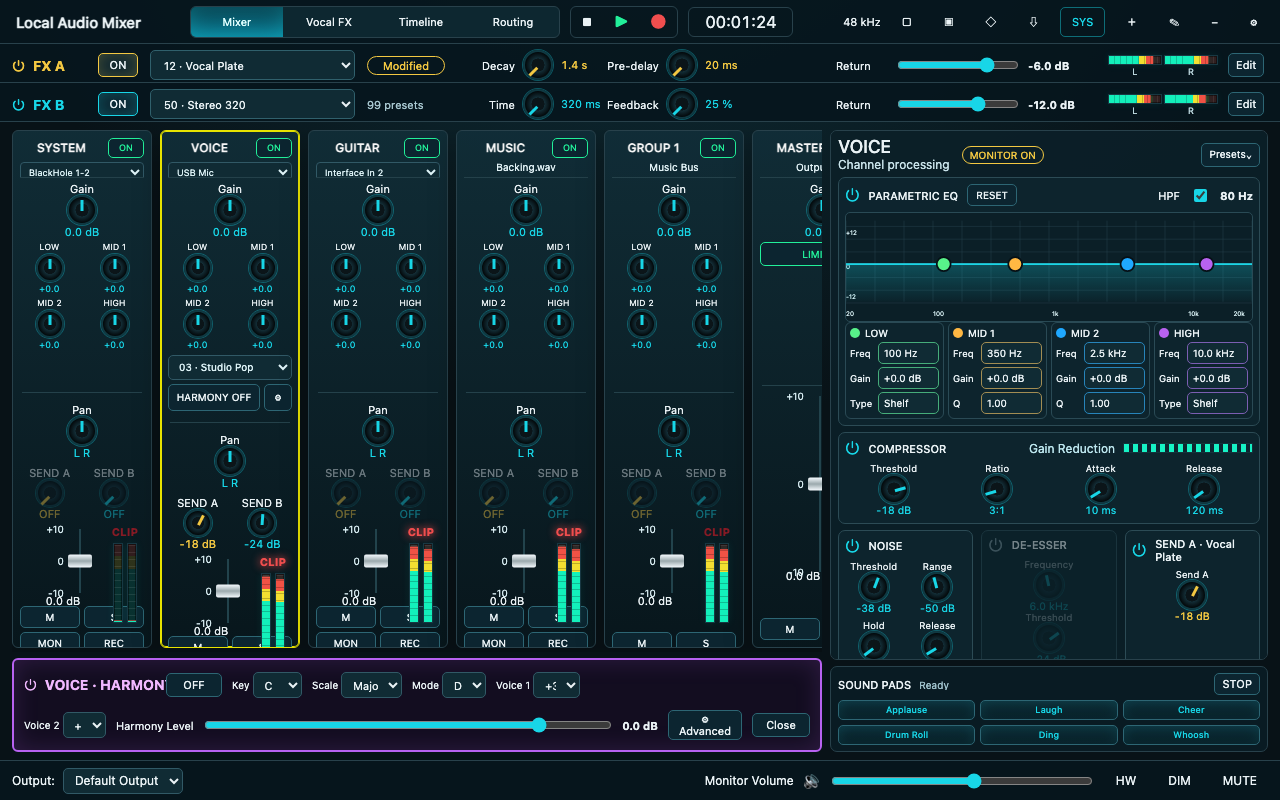
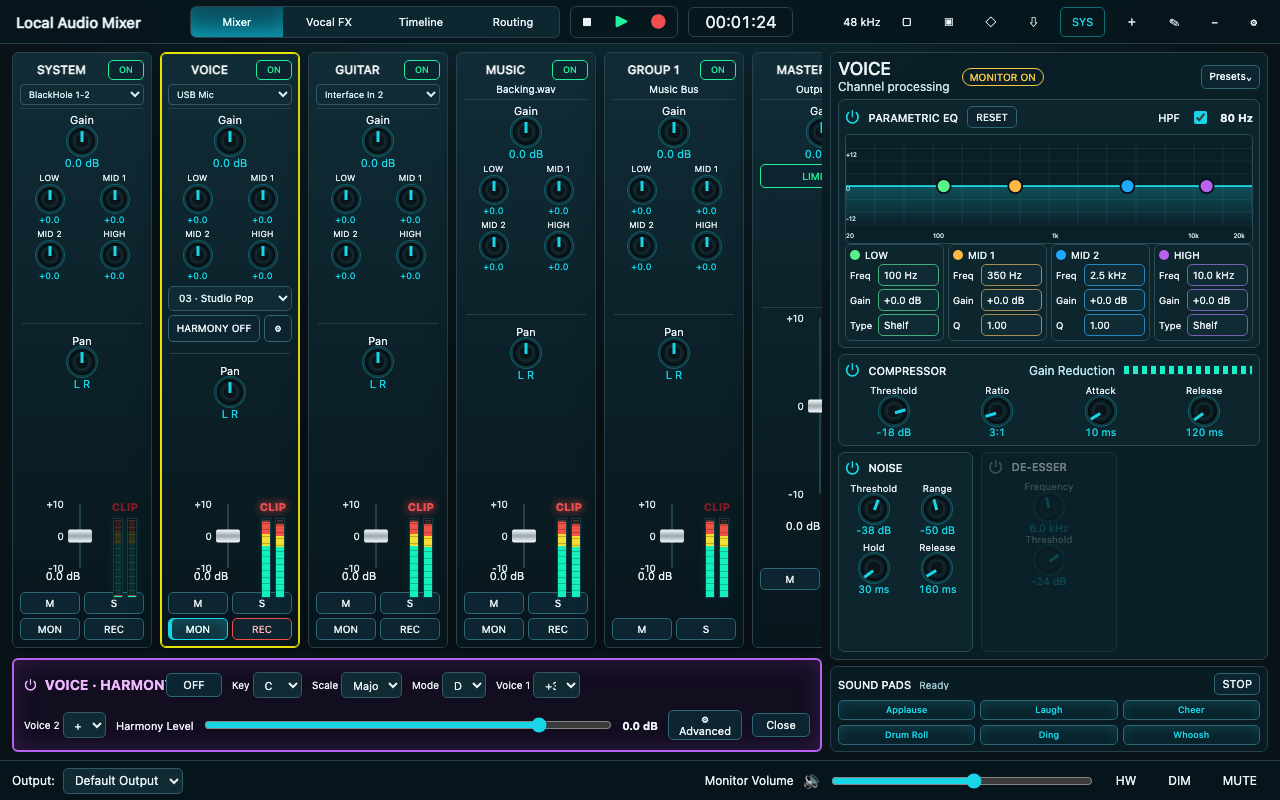
Hide FX sends and cut FX path

diff --git a/apps/desktop/src/features/mixer/MixerPage.tsx b/apps/desktop/src/features/mixer/MixerPage.tsx
@@ -1,7 +1,6 @@
 import { useEffect, useMemo, useRef, useState } from "react";
 import { PreviewAdapter } from "../../adapters/preview/PreviewAdapter";
 import { snapshotToExportRequest } from "../export/exportDocument";
-import { CompactFxRow } from "../fx/components/CompactFxRow";
 import { HarmonyQuickPanel } from "../harmony/components/HarmonyQuickPanel";
 import { HardwareMonitorPanel } from "../hardware/components/HardwareMonitorPanel";
 import { MediaImportPanel } from "../media/components/MediaImportPanel";
@@ -43,8 +42,6 @@ export function MixerPage() {
   const [systemMeter, setSystemMeter] = useState<MeterLevel>({ left: -60, right: -60, clip: false });
   const autosaveReady = useRef(false);
   const liveMonitorRefreshTimer = useRef<number | undefined>(undefined);
-  const fxProgramInFlight = useRef<Record<"fx-a" | "fx-b", boolean>>({ "fx-a": false, "fx-b": false });
-  const fxProgramDesired = useRef<Partial<Record<"fx-a" | "fx-b", number>>>({});
 
   function refresh(action: () => void) {
     action();
@@ -321,81 +318,6 @@ export function MixerPage() {
     });
   }
 
-  async function selectFxProgram(unitId: "fx-a" | "fx-b", programId: number) {
-    fxProgramDesired.current[unitId] = programId;
-    if (!window.localMixer?.engineCommand) {
-      refresh(() => adapter.setFxProgram(unitId, programId));
-      delete fxProgramDesired.current[unitId];
-      return;
-    }
-    if (fxProgramInFlight.current[unitId]) {
-      refresh(() => adapter.setFxProgramPending(unitId, true));
-      return;
-    }
-
-    fxProgramInFlight.current[unitId] = true;
-    try {
-      while (fxProgramDesired.current[unitId] !== undefined) {
-        const desiredProgramId = fxProgramDesired.current[unitId] ?? programId;
-        delete fxProgramDesired.current[unitId];
-        await sendFxProgramRequest(unitId, desiredProgramId);
-      }
-    } finally {
-      fxProgramInFlight.current[unitId] = false;
-    }
-  }
-
-  async function sendFxProgramRequest(unitId: "fx-a" | "fx-b", programId: number) {
-    const engineCommand = window.localMixer?.engineCommand;
-    if (!engineCommand) return;
-    const unit = adapter.getSnapshot().fxUnits.find((item) => item.id === unitId);
-    refresh(() => adapter.setFxProgramPending(unitId, true));
-    const result = await engineCommand("fx-unit-select-program", {
-      unitId,
-      programId,
-      expectedRevision: unit?.revision ?? 0
-    });
-    if (result?.ok === false || result?.accepted === false || typeof result?.programId !== "number") {
-      refresh(() => adapter.setFxError(unitId, String(result?.error ?? "FX_PROGRAM_REJECTED")));
-      return;
-    }
-    refresh(() => adapter.ackFxProgram(unitId, result.programId as number, Number(result.revision ?? 0)));
-  }
-
-  async function setFxMacro(unitId: "fx-a" | "fx-b", macro: "macro1" | "macro2", value: string) {
-    const unit = adapter.getSnapshot().fxUnits.find((item) => item.id === unitId);
-    refresh(() => adapter.setFxProgramMacro(unitId, macro, value));
-    if (!window.localMixer?.engineCommand || !unit) return;
-    const result = await window.localMixer.engineCommand("fx-unit-set-macro", {
-      unitId,
-      macro,
-      value,
-      expectedRevision: unit.revision
-    });
-    if (result?.ok === false || result?.accepted === false) {
-      refresh(() => adapter.setFxError(unitId, String(result?.error ?? "FX_MACRO_REJECTED")));
-      return;
-    }
-    refresh(() => adapter.ackFxProgram(unitId, Number(result.programId ?? unit.programId), Number(result.revision ?? unit.revision), true));
-  }
-
-  async function resetFxProgram(unitId: "fx-a" | "fx-b") {
-    const unit = adapter.getSnapshot().fxUnits.find((item) => item.id === unitId);
-    if (!window.localMixer?.engineCommand || !unit) {
-      refresh(() => adapter.resetFxProgram(unitId));
-      return;
-    }
-    const result = await window.localMixer.engineCommand("fx-unit-reset-macros", {
-      unitId,
-      expectedRevision: unit.revision
-    });
-    if (result?.ok === false || result?.accepted === false) {
-      refresh(() => adapter.setFxError(unitId, String(result?.error ?? "FX_RESET_REJECTED")));
-      return;
-    }
-    refresh(() => adapter.ackFxProgram(unitId, Number(result.programId ?? unit.programId), Number(result.revision ?? unit.revision)));
-  }
-
   async function setHarmonyEnabled(enabled: boolean) {
     const current = adapter.getSnapshot().harmony;
     const channel = adapter.getSnapshot().channels.find((item) => item.role === "vocal");
@@ -510,10 +432,6 @@ export function MixerPage() {
     if (selected.role === "system" && vocalFxOpen) setVocalFxOpen(false);
   }, [selected.role, vocalFxOpen]);
 
-  const fxA = snapshot.fxUnits[0];
-  const fxB = snapshot.fxUnits[1];
-  const programA = snapshot.programs.find((program) => program.id === fxA.programId) ?? snapshot.programs[0];
-  const programB = snapshot.programs.find((program) => program.id === fxB.programId) ?? snapshot.programs[0];
   const inputOptions = devices
     .filter((device) => (device.inputChannels ?? 0) > 0)
     .map((device) => ({ value: device.uid, label: device.name || device.uid }));
@@ -561,10 +479,6 @@ export function MixerPage() {
         onRenameChannel={renameSelectedChannel}
         onRemoveChannel={removeSelectedChannel}
       />
-      <div className="fx-stack">
-        <CompactFxRow unit={fxA} program={programA} programs={snapshot.programs} onProgramChange={(id) => void selectFxProgram("fx-a", id)} onToggle={(enabled) => refresh(() => adapter.setFxEnabled("fx-a", enabled))} onReturn={(value) => refresh(() => adapter.setFxReturn("fx-a", value))} onMacro={(macro, value) => void setFxMacro("fx-a", macro, value)} onReset={() => void resetFxProgram("fx-a")} />
-        <CompactFxRow unit={fxB} program={programB} programs={snapshot.programs} onProgramChange={(id) => void selectFxProgram("fx-b", id)} onToggle={(enabled) => refresh(() => adapter.setFxEnabled("fx-b", enabled))} onReturn={(value) => refresh(() => adapter.setFxReturn("fx-b", value))} onMacro={(macro, value) => void setFxMacro("fx-b", macro, value)} onReset={() => void resetFxProgram("fx-b")} />
-      </div>
       <section className="workspace">
         <div className="left-zone">
           <ChannelBank
@@ -585,7 +499,6 @@ export function MixerPage() {
             onPan={(id, value) => refreshLiveProcessing(() => adapter.setChannelPan(id, value))}
             onFader={(id, value) => refreshLiveProcessing(() => adapter.setChannelFader(id, value))}
             onEqBand={(id, bandId, gainDb) => refreshLiveProcessing(() => adapter.setChannelEqBand(id, bandId, "gainDb", gainDb))}
-            onSend={(id, unitId, value) => refreshLiveProcessing(() => adapter.setChannelSend(id, unitId, value))}
             onMute={(id, muted) => {
               const nextSnapshot = refresh(() => adapter.setChannelMute(id, muted));
               void refreshActiveMonitor(nextSnapshot);
@@ -624,8 +537,6 @@ export function MixerPage() {
           <ChannelProcessingPanel
             channel={selected}
             eqBands={selected.eqBands}
-            linkedProgram={programA}
-            onSendA={(value) => refreshLiveProcessing(() => adapter.setChannelSend(selected.id, "fx-a", value))}
             onEqChange={(bandId, field, value) => refreshLiveProcessing(() => adapter.updateEqBand(bandId, field, value))}
             onEqReset={() => refreshLiveProcessing(() => adapter.resetEqBands())}
             onProcessor={(processorId, enabled) => refreshLiveProcessing(() => adapter.setChannelProcessor(selected.id, processorId, enabled))}
@@ -660,12 +571,12 @@ async function syncMixerGraph(snapshot: MixerSnapshot, outputUid: string) {
     channelCount: channels.length,
     outputUid,
     monitorGainDb: monitorSafetyGainDb,
-    fxAEnabled: fxA?.enabled ?? false,
+    fxAEnabled: false,
     fxAProgramId: fxA?.programId ?? 12,
-    fxAReturnDb: fxA?.returnDb ?? -12,
-    fxBEnabled: fxB?.enabled ?? false,
+    fxAReturnDb: -60,
+    fxBEnabled: false,
     fxBProgramId: fxB?.programId ?? 50,
-    fxBReturnDb: fxB?.returnDb ?? -12,
+    fxBReturnDb: -60,
     vocalFxSlotCount: snapshot.vocalFx.slots.length
   };
   snapshot.vocalFx.slots.forEach((slot, index) => {
@@ -676,7 +587,7 @@ async function syncMixerGraph(snapshot: MixerSnapshot, outputUid: string) {
   });
   channels.forEach((channel, index) => {
     const prefix = `channel${index}`;
-    const fxSendsEnabled = channel.role !== "system" && channel.processing.insertFx;
+    const fxSendsEnabled = false;
     payload[`${prefix}Id`] = channel.id;
     payload[`${prefix}Kind`] = channel.kind;
     payload[`${prefix}Name`] = channel.name;

diff --git a/apps/desktop/src/features/mixer/components/ChannelStrip.tsx b/apps/desktop/src/features/mixer/components/ChannelStrip.tsx
@@ -1,4 +1,4 @@
-import type { ChannelState, EqBandState, FxUnitId, VocalFxPreset } from "../../../adapters/MixerControlPort";
+import type { ChannelState, EqBandState, VocalFxPreset } from "../../../adapters/MixerControlPort";
 import { ClipIndicator } from "../../../components/audio/ClipIndicator";
 import { LevelMeter } from "../../../components/audio/LevelMeter";
 import { RotaryKnob } from "../../../components/audio/RotaryKnob";
@@ -17,7 +17,6 @@ interface ChannelStripProps {
   onPan(value: number): void;
   onFader(value: number): void;
   onEqBand(bandId: EqBandState["id"], gainDb: number): void;
-  onSend(unitId: FxUnitId, value: number): void;
   onMute(muted: boolean): void;
   onSolo(solo: boolean): void;
   onMonitor(monitor: boolean): void;
@@ -28,7 +27,7 @@ interface ChannelStripProps {
   onHarmonySettings?(): void;
 }
 
-export function ChannelStrip({ channel, sourceOptions, vocalFxPresetId, vocalFxPresets, onSelect, onEnabled, onSource, onTrim, onPan, onFader, onEqBand, onSend, onMute, onSolo, onMonitor, onRecordArm, onVocalFxPreset, onClipReset, onHarmonyToggle, onHarmonySettings }: ChannelStripProps) {
+export function ChannelStrip({ channel, sourceOptions, vocalFxPresetId, vocalFxPresets, onSelect, onEnabled, onSource, onTrim, onPan, onFader, onEqBand, onMute, onSolo, onMonitor, onRecordArm, onVocalFxPreset, onClipReset, onHarmonyToggle, onHarmonySettings }: ChannelStripProps) {
   const isMaster = channel.kind === "master";
   const isGroup = channel.kind === "group";
   const meter = channel.enabled ? channel.meter : { left: -60, right: -60, clip: false };
@@ -56,7 +55,6 @@ export function ChannelStrip({ channel, sourceOptions, vocalFxPresetId, vocalFxP
       ) : !isMaster ? <div className="harmony-shortcut is-placeholder" aria-hidden="true" /> : null}
       <div className="strip-divider" />
       {!isMaster ? <RotaryKnob label="Pan" value={formatPan(channel.pan)} numericValue={channel.pan} min={-100} max={100} step={1} onChange={onPan} /> : <div className="master-spacer" aria-hidden="true" />}
-      {!isMaster ? <SendPair channel={channel} onSend={onSend} /> : null}
       <div className="fader-meter-row">
         <VerticalFader valueDb={channel.faderDb} onChange={onFader} label={`${channel.name} fader`} />
         <div className="strip-meter-stack">
@@ -130,18 +128,6 @@ function MasterUpperControls() {
     <div className="master-upper">
       <Button tone="green" active>LIMITER</Button>
       <div className="master-upper-spacer" aria-hidden="true" />
-    </div>
-  );
-}
-
-function SendPair({ channel, onSend }: { channel: ChannelState; onSend(unitId: FxUnitId, value: number): void }) {
-  const sendA = channel.sends["fx-a"];
-  const sendB = channel.sends["fx-b"];
-  const disabled = channel.role === "system" || !channel.processing.insertFx;
-  return (
-    <div className="send-pair">
-      <RotaryKnob label="SEND A" value={disabled || !sendA.enabled ? "OFF" : `${sendA.gainDb} dB`} numericValue={disabled ? -60 : sendA.gainDb} min={-60} max={10} tone="amber" size="sm" disabled={disabled} onChange={(value) => onSend("fx-a", value)} />
-      <RotaryKnob label="SEND B" value={disabled || !sendB.enabled ? "OFF" : `${sendB.gainDb} dB`} numericValue={disabled ? -60 : sendB.gainDb} min={-60} max={10} tone="cyan" size="sm" disabled={disabled} onChange={(value) => onSend("fx-b", value)} />
     </div>
   );
 }

diff --git a/apps/desktop/src/features/processing/components/ChannelProcessingPanel.tsx b/apps/desktop/src/features/processing/components/ChannelProcessingPanel.tsx
@@ -1,4 +1,4 @@
-import type { ChannelState, EqBandState, FxProgram, ProcessorId } from "../../../adapters/MixerControlPort";
+import type { ChannelState, EqBandState, ProcessorId } from "../../../adapters/MixerControlPort";
 import { EqResponseGraph } from "../../../components/audio/EqResponseGraph";
 import { NumericParameter } from "../../../components/audio/NumericParameter";
 import { RotaryKnob } from "../../../components/audio/RotaryKnob";
@@ -8,8 +8,6 @@ import { Badge } from "../../../components/ui/Badge";
 interface ChannelProcessingPanelProps {
   channel: ChannelState;
   eqBands: EqBandState[];
-  linkedProgram: FxProgram;
-  onSendA(valueDb: number): void;
   onEqChange(bandId: EqBandState["id"], field: "freqHz" | "gainDb" | "qValue" | "type", value: number | string): void;
   onEqReset(): void;
   onProcessor(processorId: ProcessorId, enabled: boolean): void;
@@ -18,15 +16,12 @@ interface ChannelProcessingPanelProps {
   onDeEsserChange(field: keyof ChannelState["dynamics"]["deEsser"], value: number): void;
 }
 
-export function ChannelProcessingPanel({ channel, eqBands, linkedProgram, onSendA, onEqChange, onEqReset, onProcessor, onNoiseChange, onCompressorChange, onDeEsserChange }: ChannelProcessingPanelProps) {
-  const sendA = channel.sends["fx-a"];
+export function ChannelProcessingPanel({ channel, eqBands, onEqChange, onEqReset, onProcessor, onNoiseChange, onCompressorChange, onDeEsserChange }: ChannelProcessingPanelProps) {
   const noise = channel.dynamics.noise;
   const compressor = channel.dynamics.compressor;
   const deEsser = channel.dynamics.deEsser;
-  const showInsertFx = channel.role !== "system";
   const deEsserAvailable = channel.role === "vocal";
   const deEsserEnabled = deEsserAvailable && channel.processing.deEsser;
-  const fxSendBypassed = !channel.processing.insertFx;
   return (
     <aside className="processing-panel">
       <header className="processing-header">
@@ -92,12 +87,6 @@ export function ChannelProcessingPanel({ channel, eqBands, linkedProgram, onSend
           <RotaryKnob label="Frequency" value={formatFrequency(deEsser.frequencyHz)} numericValue={deEsser.frequencyHz} min={1000} max={12000} step={100} disabled={!deEsserEnabled} onChange={(value) => onDeEsserChange("frequencyHz", value)} />
           <RotaryKnob label="Threshold" value={`${deEsser.thresholdDb} dB`} numericValue={deEsser.thresholdDb} min={-80} max={0} disabled={!deEsserEnabled} onChange={(value) => onDeEsserChange("thresholdDb", value)} />
         </section>
-        {showInsertFx ? (
-          <section className={`processor-card ${channel.processing.insertFx ? "is-active" : "is-bypassed"}`}>
-            <div className="processor-title"><span>⏻</span><strong>SEND A · {linkedProgram.name}</strong></div>
-            <RotaryKnob label="Send A" value={fxSendBypassed || !sendA.enabled ? "OFF" : `${sendA.gainDb} dB`} numericValue={fxSendBypassed ? -60 : sendA.gainDb} min={-60} max={10} tone="amber" disabled={fxSendBypassed} onChange={onSendA} />
-          </section>
-        ) : null}
       </div>
     </aside>
   );

diff --git a/tests/ui/visual.visual.ts b/tests/ui/visual.visual.ts
@@ -10,11 +10,12 @@ for (const viewport of viewports) {
     await page.setViewportSize({ width: viewport.width, height: viewport.height });
     await page.goto("/");
     await expect(page.getByRole("heading", { name: "Local Audio Mixer" })).toBeVisible();
-    await expect(page.getByText("FX A")).toBeVisible();
-    await expect(page.getByText("FX B")).toBeVisible();
+    await expect(page.getByText("FX A")).toHaveCount(0);
+    await expect(page.getByText("FX B")).toHaveCount(0);
     await expect(page.getByText("VOICE · HARMONY")).toBeVisible();
     await expect(page.getByText("PARAMETRIC EQ")).toBeVisible();
-    await expect(page.getByText("SEND A · Vocal Plate")).toBeVisible();
+    await expect(page.getByText(/SEND A/)).toHaveCount(0);
+    await expect(page.getByText(/SEND B/)).toHaveCount(0);
     await expect(page.getByText("SOUND PADS")).toBeVisible();
     await expect(page.getByRole("button", { name: /APPLAUSE/i })).toBeEnabled();
     await page.screenshot({ path: `docs/reports/ui/${viewport.name}.png`, fullPage: true });
@@ -35,12 +36,8 @@ test("preview controls mutate visible mixer state", async ({ page }) => {
   await voiceStrip.locator('label[aria-label="VOICE fader"] input').fill("25");
   await expect(voiceStrip.getByText("-5.0 dB")).toBeVisible();
 
-  await voiceStrip.locator('input[aria-label="SEND A"]').fill("-9");
-  await expect(voiceStrip.getByText("-9 dB")).toBeVisible();
-  await expect(page.locator(".processing-panel").getByText("-9 dB")).toBeVisible();
-
-  await page.getByLabel("FX A return").fill("-18");
-  await expect(page.locator(".compact-fx-row").first().getByText("-18.0 dB")).toBeVisible();
+  await expect(voiceStrip.locator('input[aria-label="SEND A"]')).toHaveCount(0);
+  await expect(page.getByLabel("FX A return")).toHaveCount(0);
 
   await voiceStrip.getByRole("button", { name: "MON", exact: true }).click();
   await expect(page.getByText("MONITOR ON")).toHaveCount(0);
@@ -55,11 +52,8 @@ test("preview controls mutate visible mixer state", async ({ page }) => {
   await voiceStrip.getByLabel("Voice preset").selectOption("voice-12-robot");
   await expect(voiceStrip.getByLabel("Voice preset")).toHaveValue("voice-12-robot");
 
-  await page.getByLabel("FX program").first().selectOption("50");
-  await expect(page.getByLabel("FX program").first()).toHaveValue("50");
-
-  await page.locator(".compact-fx-row").first().getByRole("button", { name: "Edit" }).click();
-  await expect(page.getByRole("dialog", { name: "FX A editor" })).toBeVisible();
+  await expect(page.getByLabel("FX program")).toHaveCount(0);
+  await expect(page.locator(".compact-fx-row")).toHaveCount(0);
 });
 
 test("hardware modal exposes guarded system routing controls", async ({ page }) => {

diff --git a/apps/desktop/src/features/mixer/components/ChannelBank.tsx b/apps/desktop/src/features/mixer/components/ChannelBank.tsx
@@ -13,7 +13,6 @@ interface ChannelBankProps {
   onPan(channelId: string, value: number): void;
   onFader(channelId: string, value: number): void;
   onEqBand(channelId: string, bandId: EqBandState["id"], gainDb: number): void;
-  onSend(channelId: string, unitId: "fx-a" | "fx-b", value: number): void;
   onMute(channelId: string, muted: boolean): void;
   onSolo(channelId: string, solo: boolean): void;
   onMonitor(channelId: string, monitor: boolean): void;
@@ -24,7 +23,7 @@ interface ChannelBankProps {
   onHarmonySettings(channelId: string): void;
 }
 
-export function ChannelBank({ channels, sourceOptions, vocalFxPresetId, vocalFxPresets, onSelect, onEnabled, onSource, onTrim, onPan, onFader, onEqBand, onSend, onMute, onSolo, onMonitor, onRecordArm, onVocalFxPreset, onClipReset, onHarmonyToggle, onHarmonySettings }: ChannelBankProps) {
+export function ChannelBank({ channels, sourceOptions, vocalFxPresetId, vocalFxPresets, onSelect, onEnabled, onSource, onTrim, onPan, onFader, onEqBand, onMute, onSolo, onMonitor, onRecordArm, onVocalFxPreset, onClipReset, onHarmonyToggle, onHarmonySettings }: ChannelBankProps) {
   return (
     <section className="channel-bank">
       {channels.map((channel) => (
@@ -41,7 +40,6 @@ export function ChannelBank({ channels, sourceOptions, vocalFxPresetId, vocalFxP
           onPan={(value) => onPan(channel.id, value)}
           onFader={(value) => onFader(channel.id, value)}
           onEqBand={(bandId, gainDb) => onEqBand(channel.id, bandId, gainDb)}
-          onSend={(unitId, value) => onSend(channel.id, unitId, value)}
           onMute={(muted) => onMute(channel.id, muted)}
           onSolo={(solo) => onSolo(channel.id, solo)}
           onMonitor={(monitor) => onMonitor(channel.id, monitor)}

diff --git a/apps/desktop/src/styles/app.css b/apps/desktop/src/styles/app.css
@@ -1,7 +1,7 @@
 .mixer-app {
   height: 100vh;
   display: grid;
-  grid-template-rows: 46px 82px minmax(0, 1fr) 42px;
+  grid-template-rows: 46px minmax(0, 1fr) 42px;
   background: radial-gradient(circle at 50% -30%, #103540, var(--bg) 55%);
   overflow: hidden;
 }
@@ -334,7 +334,7 @@
 .monitor-volume input { flex: 1; }
 
 @media (max-width: 1320px) {
-  .mixer-app { grid-template-rows: 44px 78px minmax(0, 1fr) 40px; }
+  .mixer-app { grid-template-rows: 44px minmax(0, 1fr) 40px; }
   .top-bar, .compact-fx-row, .footer-bar { padding: 6px 12px; }
   .top-bar nav { grid-template-columns: repeat(4, 92px); }
   .top-bar h1 { width: 150px; white-space: nowrap; overflow: hidden; text-overflow: ellipsis; }

diff --git a/docs/progress.md b/docs/progress.md
@@ -3871,3 +3871,33 @@ Validation:
 
 Known limitations:
 - This checkpoint does not yet implement true simultaneous native live capture/mixing for SYSTEM plus VOICE. The current persistent monitor path is still single-source; full multi-source native mixer monitoring remains required for the user's target workflow.
+
+### Phase19 UX Checkpoint — Hide Global FX Sends And Cut Runtime FX Path
+
+Changed files:
+- `apps/desktop/src/features/mixer/MixerPage.tsx`: removed the compact FX A/B row from the main mixer, stopped wiring strip send handlers, and forced the live native sync payload to disable FX A/B units, returns, and all per-channel FX sends.
+- `apps/desktop/src/features/mixer/components/ChannelBank.tsx`: removed send handler propagation from the mixer bank.
+- `apps/desktop/src/features/mixer/components/ChannelStrip.tsx`: removed the SEND A/SEND B knob pair from every channel strip.
+- `apps/desktop/src/features/processing/components/ChannelProcessingPanel.tsx`: removed the linked SEND A processor card from the right-side inspector.
+- `apps/desktop/src/styles/app.css`: collapsed the application grid after hiding the FX A/B row.
+- `tests/ui/visual.visual.ts`: updated visual coverage so hidden FX rows, FX program selects, returns, and send knobs are asserted absent.
+- `docs/progress.md`: recorded verification evidence.
+
+Implemented behavior:
+- The mixer no longer shows the top FX A/B panel or per-channel SEND A/SEND B controls.
+- Runtime audio sync now sends `fxAEnabled=false`, `fxBEnabled=false`, return gains at `-60 dB`, and every channel send disabled with send gains at `-60 dB`.
+- Stored project/session FX metadata remains in the model for future re-enable work, but the current live monitor graph is fed as dry/no-send from the renderer control surface.
+
+Validation:
+- command: `npm run typecheck`
+- exit/result: `0`; TypeScript passed.
+- command: `npm run test:ui`
+- exit/result: `0`; Vitest 50/50 passed.
+- command: `npm run test:visual`
+- exit/result: `0`; Playwright visual suite 6/6 passed and refreshed the current UI screenshots.
+- command: `npm run verify`
+- exit/result: `0`; plan, file-size, architecture, typecheck, Vitest 50/50, native CTest 43/43, engine self-test, device enumeration smoke, protocol smoke, UI build, and Electron main/preload build passed.
+
+Known limitations:
+- Manual listening confirmation on SYSTEM+VOICE hardware after hiding FX sends is `NOT_RUN`; automated evidence verifies the control payload and UI surface, not the user's current physical routing.
+- True simultaneous native live capture/mixing for multiple active channels remains a separate required checkpoint.
